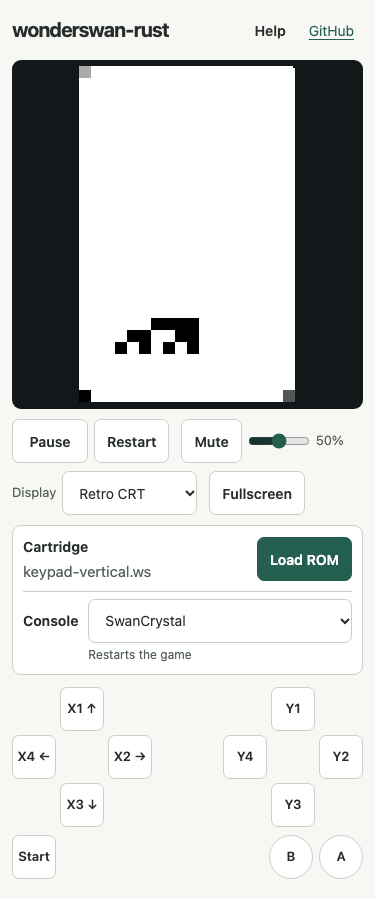
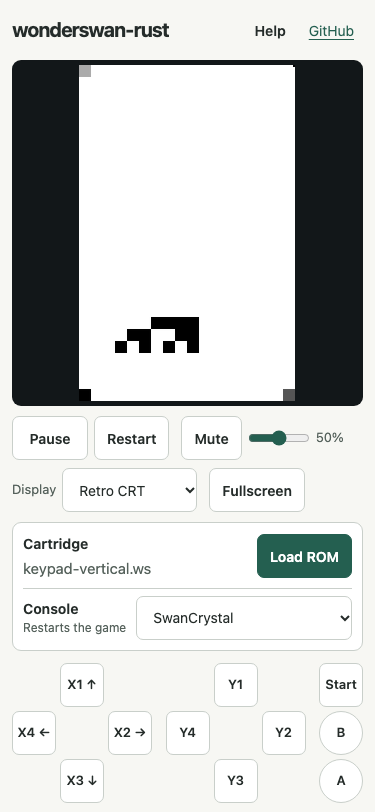
Stabilize fullscreen and keep ROM recovery visible (#136)
Place desktop fullscreen feedback beside the cartridge to preserve picture geometry. Keep the focused Load ROM button visible after rejection and improve keyboard focus contrast on the game frame.

diff --git a/web/index.html b/web/index.html
@@ -52,37 +52,39 @@
           </div>
           <button id="fullscreen" type="button" disabled>Fullscreen</button>
         </div>
-        <section class="cartridge" aria-labelledby="cartridge-label">
-          <div class="cartridge-name">
-            <h2 id="cartridge-label">Cartridge</h2>
-            <p id="rom-title">No ROM loaded</p>
+        <div class="cartridge-area">
+          <section class="cartridge" aria-labelledby="cartridge-label">
+            <div class="cartridge-name">
+              <h2 id="cartridge-label">Cartridge</h2>
+              <p id="rom-title">No ROM loaded</p>
+            </div>
+            <button id="load-rom" class="primary" type="button" aria-describedby="rom-guide" disabled>Load ROM</button>
+            <input id="rom" type="file" accept=".ws,.wsc" aria-label="Local ROM file" hidden />
+            <div class="model-control">
+              <label for="model">Console</label>
+              <select id="model" aria-describedby="model-help" disabled>
+                <option value="mono">WonderSwan</option>
+                <option value="color">WonderSwan Color</option>
+                <option value="crystal" selected>SwanCrystal</option>
+              </select>
+              <p id="model-help" class="hint">Restarts the game</p>
+            </div>
+          </section>
+          <div class="feedback">
+            <p id="rom-status" role="status">Loading WebAssembly…</p>
+            <div class="feedback-row">
+              <p id="error" role="alert"></p>
+              <button id="retry" type="button" hidden>Retry initialization</button>
+            </div>
+            <div class="feedback-row">
+              <p id="sound-status" role="status" class="visually-hidden"></p>
+              <button id="enable-audio" type="button" hidden disabled>Enable audio</button>
+            </div>
+            <p id="display-notice" role="status"></p>
+            <p id="console-notice" role="status"></p>
+            <p id="rtc-notice" role="status"></p>
+            <p id="notice" role="status"></p>
           </div>
-          <button id="load-rom" class="primary" type="button" aria-describedby="rom-guide" disabled>Load ROM</button>
-          <input id="rom" type="file" accept=".ws,.wsc" aria-label="Local ROM file" hidden />
-          <div class="model-control">
-            <label for="model">Console</label>
-            <select id="model" aria-describedby="model-help" disabled>
-              <option value="mono">WonderSwan</option>
-              <option value="color">WonderSwan Color</option>
-              <option value="crystal" selected>SwanCrystal</option>
-            </select>
-            <p id="model-help" class="hint">Restarts the game</p>
-          </div>
-        </section>
-        <div class="feedback">
-          <p id="rom-status" role="status">Loading WebAssembly…</p>
-          <div class="feedback-row">
-            <p id="error" role="alert"></p>
-            <button id="retry" type="button" hidden>Retry initialization</button>
-          </div>
-          <div class="feedback-row">
-            <p id="sound-status" role="status" class="visually-hidden"></p>
-            <button id="enable-audio" type="button" hidden disabled>Enable audio</button>
-          </div>
-          <p id="display-notice" role="status"></p>
-          <p id="console-notice" role="status"></p>
-          <p id="rtc-notice" role="status"></p>
-          <p id="notice" role="status"></p>
         </div>
         <div id="touch-controls" role="group" aria-label="Touch controller">
           <div class="dpad" role="group" aria-label="X keypad (arrows or W D S A)">

diff --git a/web/src/style.css b/web/src/style.css
@@ -110,9 +110,11 @@ canvas {
 }
 #screen-effect { pointer-events: none; }
 #screen[data-effect]:not([data-effect="clean"]) { opacity: 0; }
-#screen:focus-visible, #screen:focus-visible + #screen-effect {
-  outline: 3px solid #8ed6c2;
+#screen:focus-visible { outline: none; }
+.screen-frame:has(#screen:focus-visible) {
+  outline: 2px solid var(--accent);
   outline-offset: 2px;
+  box-shadow: 0 0 0 2px var(--surface);
 }
 [data-orientation="vertical"] canvas { transform: translate(-50%, -50%) rotate(-90deg); }
 #empty-state {
@@ -127,8 +129,8 @@ canvas {
   padding: 16px;
   pointer-events: none;
 }
-.screen-frame:focus-within #empty-state { box-shadow: inset 0 0 0 3px #8ed6c2; }
 
+.cartridge-area { display: contents; }
 .cartridge {
   grid-area: cartridge;
   display: grid;
@@ -139,6 +141,7 @@ canvas {
   border: 1px solid var(--border);
   border-radius: 9px;
 }
+#load-rom { scroll-margin-block: 6px; }
 .cartridge-name { min-width: 0; }
 .cartridge h2, .model-control label { font-size: 14px; font-weight: 650; }
 #rom-title {
@@ -250,12 +253,29 @@ input[type="checkbox"] { width: 20px; height: 20px; accent-color: var(--accent);
     max(var(--page-gutter), env(safe-area-inset-right))
     max(8px, env(safe-area-inset-bottom))
     max(var(--page-gutter), env(safe-area-inset-left));
-  grid-template-rows: auto minmax(196px, 1fr) auto auto auto;
   background: var(--page);
   overflow: auto;
 }
 #player:fullscreen .screen-frame { align-self: stretch; aspect-ratio: auto; }
 #player:fullscreen .brand { margin-bottom: 6px; }
+
+@media (width > 700px) {
+  #player:fullscreen {
+    grid-template-areas:
+      "brand   brand"
+      "screen  sidebar"
+      "toolbar toolbar"
+      "touch   touch";
+    grid-template-rows: auto minmax(196px, 1fr) auto auto;
+  }
+  #player:fullscreen .cartridge-area {
+    /* Feedback scrolls with the cartridge panel without resizing the picture. */
+    grid-area: sidebar;
+    display: block;
+    align-self: stretch;
+    overflow: auto;
+  }
+}
 
 @media (max-width: 700px) {
   :root { --page-gutter: 12px; }
@@ -263,7 +283,7 @@ input[type="checkbox"] { width: 20px; height: 20px; accent-color: var(--accent);
   #player {
     grid-template: "brand" "screen" "toolbar" "cartridge" "feedback" "touch" / minmax(0, 1fr);
   }
-  #player:fullscreen { grid-template-rows: auto auto auto auto auto auto; align-content: start; }
+  #player:fullscreen { align-content: start; }
   #player:fullscreen .screen-frame { aspect-ratio: 224 / 144; }
   .brand { margin-bottom: 8px; }
   #player .screen-frame[data-orientation="vertical"] {
@@ -301,7 +321,7 @@ input[type="checkbox"] { width: 20px; height: 20px; accent-color: var(--accent);
 @media (any-pointer: coarse) and (orientation: landscape) and (min-width: 660px) and (max-height: 500px) {
   :root { --page-gutter: 12px; }
   main { padding-top: max(6px, env(safe-area-inset-top)); }
-  #player {
+  #player, #player:fullscreen {
     --screen-height: clamp(196px, calc(100dvh - 174px), 300px);
     grid-template:
       "brand     brand     brand" auto
@@ -355,6 +375,6 @@ input[type="checkbox"] { width: 20px; height: 20px; accent-color: var(--accent);
   .model-control label { align-self: end; }
   .model-control select { grid-area: 1 / 2 / 3; align-self: center; }
   .model-control .hint { grid-column: 1; align-self: start; }
-  #player:fullscreen { grid-template-rows: auto var(--screen-height) auto auto auto; }
+  #player:fullscreen .cartridge-area { display: contents; }
   #player:fullscreen .screen-frame { aspect-ratio: auto; }
 }

diff --git a/web/src/main.ts b/web/src/main.ts
@@ -283,6 +283,9 @@ async function main() {
         loading = false;
         errorStatus.textContent = `Could not load “${name}”: ${message(error)} Choose another local ROM.`;
         setRunning(wasRunning && visibleRevision === visibilityRevision);
+        if (document.activeElement === loadButton) {
+          loadButton.scrollIntoView({ block: "nearest", inline: "nearest" });
+        }
       }
     } finally {
       if (revision === readRevision) {

diff --git a/docs/issue-136-validation.md b/docs/issue-136-validation.md
@@ -19,9 +19,10 @@ macOS arm64. Touch contacts and mobile viewports used browser emulation.
 | `git diff --check` | Passed |
 | Additional Rust and fixture checks | Skipped. The core, Wasm adapter, and fixture sources were outside the change. |
 
-A focused headless WebKit 27.2 check passed on the same host. It loaded the
-vertical CC0 fixture at 375×812 and 812×375, checked the canvas and control
-layout, confirmed Retro CRT, and dismissed Help with Escape.
+A focused headless WebKit 27.2 check passed during the initial layout validation
+on the same host. It loaded the vertical CC0 fixture at 375×812 and 812×375,
+checked the canvas and control layout, confirmed Retro CRT, and dismissed Help
+with Escape.
 Physical-device testing was outside this run.
 
 Chrome 157.0.8103.52 was outside this run. The LCD Authentic portrait corner
@@ -33,13 +34,17 @@ The smoke checks exercise local file selection, display switching with input
 held, keyboard focus and Help dismissal, and all eleven controller buttons
 through the fixture's CPU-produced bit tiles. Landscape includes simultaneous
 X, Y, and A touches and checks that the toolbar and cartridge controls fit
-within the first 812×375 viewport.
+within the first 812×375 viewport. After an invalid ROM selection, the alert
+and the focused Load ROM button are both fully visible. The desktop fullscreen
+check verifies that an invalid ROM alert leaves the vertical picture's bounds
+unchanged. The 375×812 check verifies at least 3:1 contrast between the keyboard
+focus outline and the page in Clean and Retro CRT modes.
 
 ## Screenshots
 
 Playwright captured the production preview with the original CC0 keypad
-fixtures selected as local files. The portrait phone screenshot includes the
-scrollable controller below the fold.
+fixtures selected as local files. In the 375×812 portrait view, Start, B, and A
+are stacked beside the X and Y keypads, with all eleven buttons in view.
 
 - [Desktop empty, 1280×800 viewport](images/issue-136-desktop-empty.png)
 - [Desktop with a horizontal cartridge, 1280×800 viewport](images/issue-136-desktop-playing.png)
